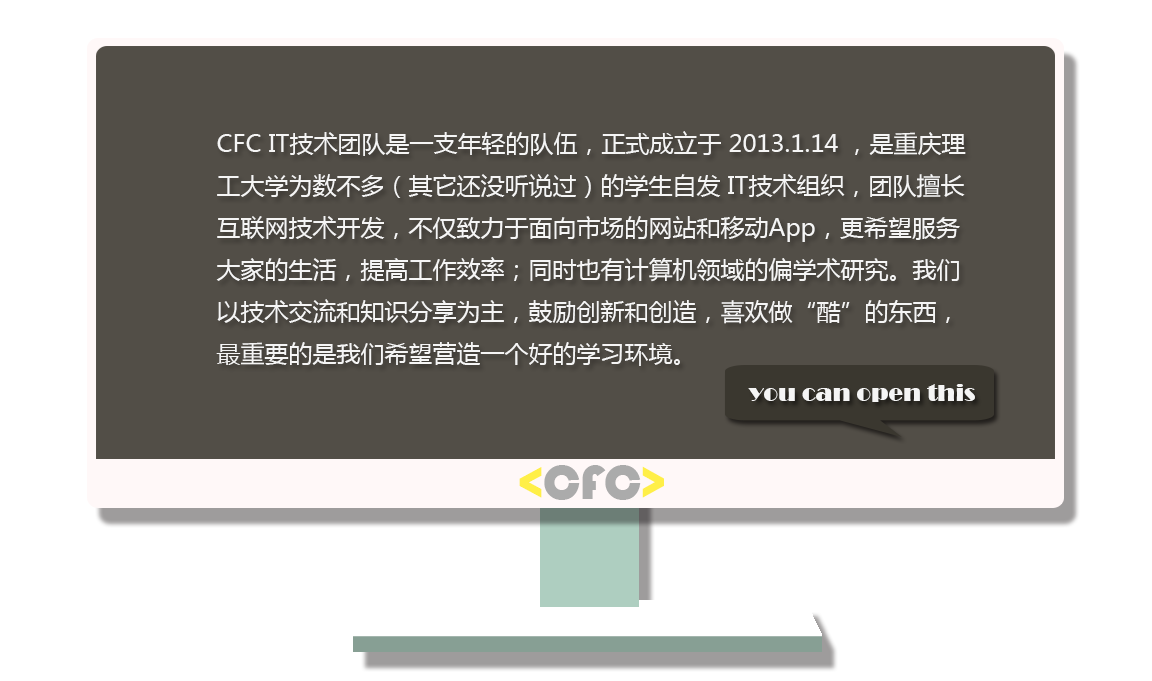
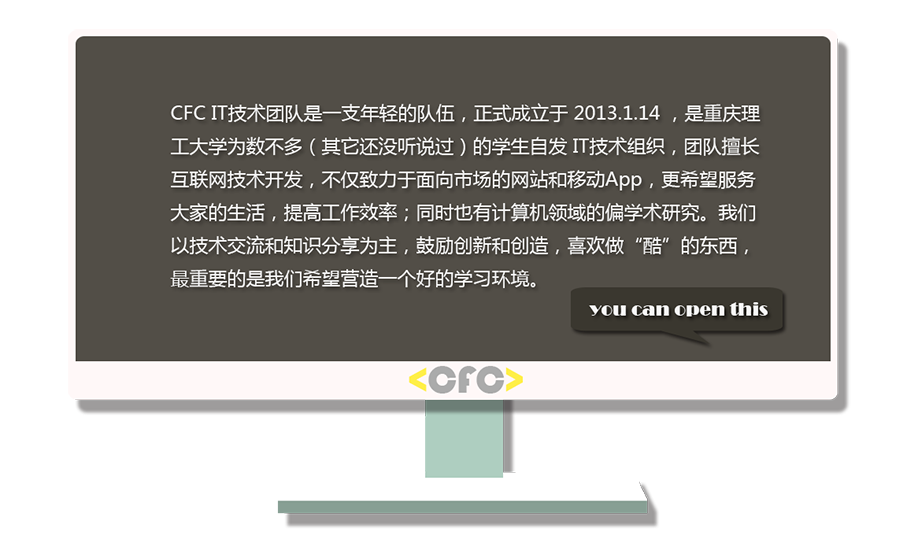
change the picture's px

diff --git a/js/cfc.js b/js/cfc.js
@@ -2,34 +2,6 @@
  * Created by DaisyCream on 2015/8/11.
  */
 
-
-//    var arrowUp = document.getElementById("arrowUp");
-//    var arrowDown = document.getElementById("arrowDown");
-//    var workAll = document.getElementById("workAll");
-//    var workCount = 0;//�����ڵڼ���workWindow
-//    var workHeight = 260;//�ƶ��ĳ���
-//
-//    arrowDown.onclick = function(){
-//        workCount++;
-//        if(workCount>3){
-//            workCount=3;
-//            return;
-//        }
-//        workAll.style.top = -(workCount*workHeight)+"px";
-//    }
-//
-//
-//    arrowUp.onclick = function workmoveup(){
-//        workCount--;
-//        if(workCount<0){
-//            workCount=0;
-//            return;
-//        }
-//        workAll.style.top = -(workCount*workHeight)+"px";
-//    }
-
-
-
 function $$(target){
     return document.getElementById(target);
 }
@@ -190,6 +162,16 @@ addPhoto.theWindowPhoto = function(){
         addPhoto.windowPhoto[addPhoto.count].style.backgroundImage = 'url('+ LOADING.IMG_ARRAY_PHOTO[addPhoto.count] +')';
     }
 };
+
+
+/*********************************check the window is open**********************************/
+var winSingle = document.getElementsByClassName('winSingle');
+var openWindowTip = document.getElementById('openWindowTip');
+for(var i=0;i<winSingle.length;i++){
+    winSingle[i].onmousemove = function(){
+        setTimeout(function(){openWindowTip.style.display = 'none';},1000);
+    };
+}
 
 
 window.onload = function(){

diff --git a/js/homeLoading.js b/js/homeLoading.js
@@ -28,7 +28,8 @@ LOADING.IMG_ARRAY_VIDEO = [
     "png/rail.png",
     "png/show.png",
     "png/title.png",
-    "png/window_big.png"
+    "png/window_big.png",
+    "png/openWindowTip.png"
 ];
 LOADING.IMG_ARRAY_PHOTO = [
     "peoplePhoto/yangli.png",

diff --git a/css/page1.css b/css/page1.css
@@ -343,6 +343,12 @@ body {
     z-index: -1;
 }
 
+#openWindowTip{
+    position: absolute;
+    top: 40%;
+    transform: translateY(-50%);
+    left: 14%;
+}
 
 
 /*********************************Page 2*********************************/

diff --git a/cfc.html b/cfc.html
@@ -926,6 +926,7 @@
             </div>
     </div>
     <div id="rail"></div>
+    <img src="png/openWindowTip.png" id="openWindowTip" />
 </div>
 
 
